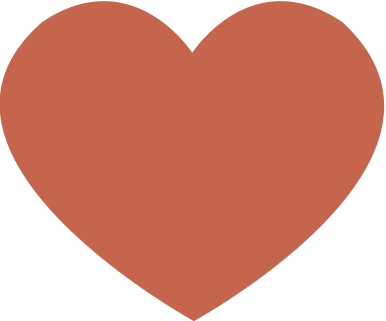
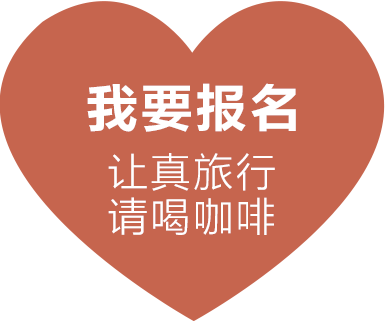
西班牙线路图片修改

Changed region(s): [[0.2176, 0.2492, 0.7772, 0.4361], [0.2798, 0.6231, 0.715, 0.7477], [0.2798, 0.4673, 0.715, 0.5919]]

diff --git a/mstatic/special/xibanya_h5.html b/mstatic/special/xibanya_h5.html
@@ -53,10 +53,7 @@
 	    <div class="swiper-slide x-slide-11"></div>
 	    <div class="swiper-slide x-slide-12">
 	    	<div class="x-link-block">
-	    		<a class="x-left-link" href="https://jinshuju.net/f/mCLuWf">
-	    			<span>我要报名</span>
-					<span>让真旅行<br>请喝咖啡</span>
-	    		</a>
+	    		<a class="x-left-link" href="https://jinshuju.net/f/mCLuWf"></a>
 	    	</div>
 	    </div>
 	    <div class="swiper-slide x-slide-13">
